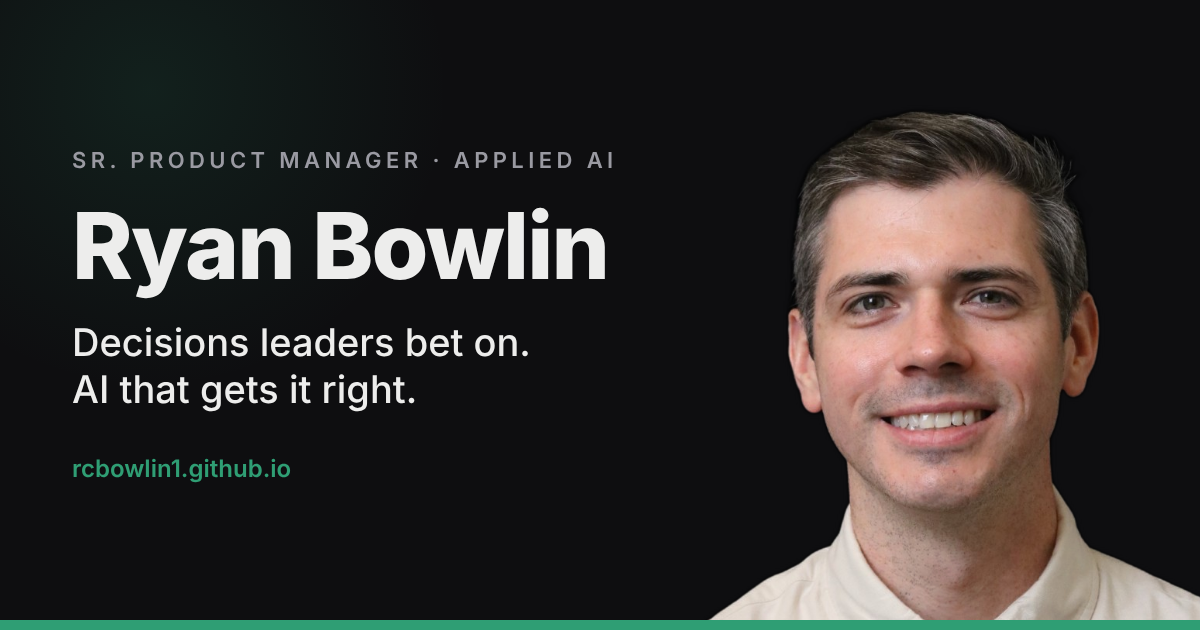
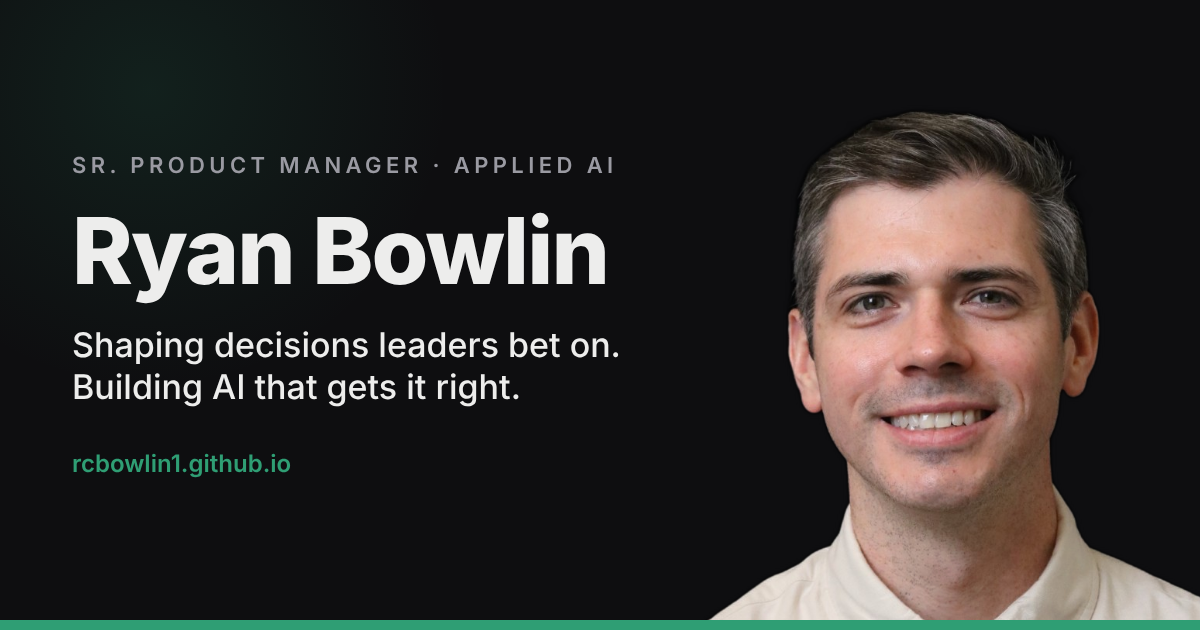
Headline: "Shaping decisions leaders bet on. Building AI that gets it right."
Updates hero, share card, and metadata; resizes the hero headline so each
sentence sits on one line; de-duplicates the lede.

Claude-Session: https://claude.ai/code/session_01T1k2j5aoMrcc6iQUbrJPUP

diff --git a/og-card.html b/og-card.html
@@ -32,7 +32,7 @@
     left: 72px;
     top: 50%;
     transform: translateY(-50%);
-    max-width: 560px;
+    max-width: 660px;
     z-index: 2;
   }
   .eyebrow {
@@ -52,7 +52,7 @@
     margin-bottom: 26px;
   }
   .tagline {
-    font-size: 38px;
+    font-size: 34px;
     font-weight: 500;
     line-height: 1.25;
     color: var(--fg);
@@ -86,7 +86,7 @@
   <div class="text">
     <div class="eyebrow">Sr. Product Manager · Applied AI</div>
     <h1>Ryan Bowlin</h1>
-    <div class="tagline">Decisions leaders bet on.<br />AI that gets it right.</div>
+    <div class="tagline">Shaping decisions leaders bet on.<br />Building AI that gets it right.</div>
     <div class="url">rcbowlin1.github.io</div>
   </div>
   <img class="portrait" src="src/img/ryan-bowlin-cutout.png" alt="Ryan Bowlin" />

diff --git a/src/css/styles.css b/src/css/styles.css
@@ -93,12 +93,14 @@ body.menu-open .site-header {
   margin: 0 0 20px;
 }
 .hero h1 {
-  font-size: clamp(2.8rem, 8vw, 5.5rem);
+  font-size: clamp(2rem, 5.2vw, 3.4rem);
   line-height: 1.02;
   letter-spacing: -0.038em;
   font-weight: 800;
   margin: 0 0 24px;
+  text-wrap: balance;
 }
+.hero h1 .hl { display: block; }
 .lede { font-size: 1.25rem; color: #c9c9cc; max-width: 62ch; margin: 0 0 32px; }
 .hero-actions { display: flex; gap: 14px; }
 

diff --git a/src/ryan-bowlin-mcp.py b/src/ryan-bowlin-mcp.py
@@ -43,7 +43,7 @@ def roll_dice(sides: int = 6, count: int = 1) -> str:
 def about_ryan() -> str:
     """A short bio for Ryan Bowlin and where to find his work."""
     return (
-        "Ryan Bowlin — Senior Product Manager: decisions leaders bet on, and AI that gets it right. "
+        "Ryan Bowlin — Senior Product Manager shaping decisions leaders bet on and building AI that gets it right. "
         "Writes at https://rcbowlin1.github.io. "
         "This is the starter MCP server from his post 'You down with MCP?'."
     )

diff --git a/README.md b/README.md
@@ -1,6 +1,6 @@
 # rcbowlin1.github.io
 
-Personal site for Ryan Bowlin — Senior Product Manager: decisions leaders bet on, and AI that gets it right.
+Personal site for Ryan Bowlin — Senior Product Manager shaping decisions leaders bet on and building AI that gets it right.
 
 Built with [Eleventy](https://www.11ty.dev/) (static site generator). Deployed to GitHub Pages
 via GitHub Actions on every push to `main`.
